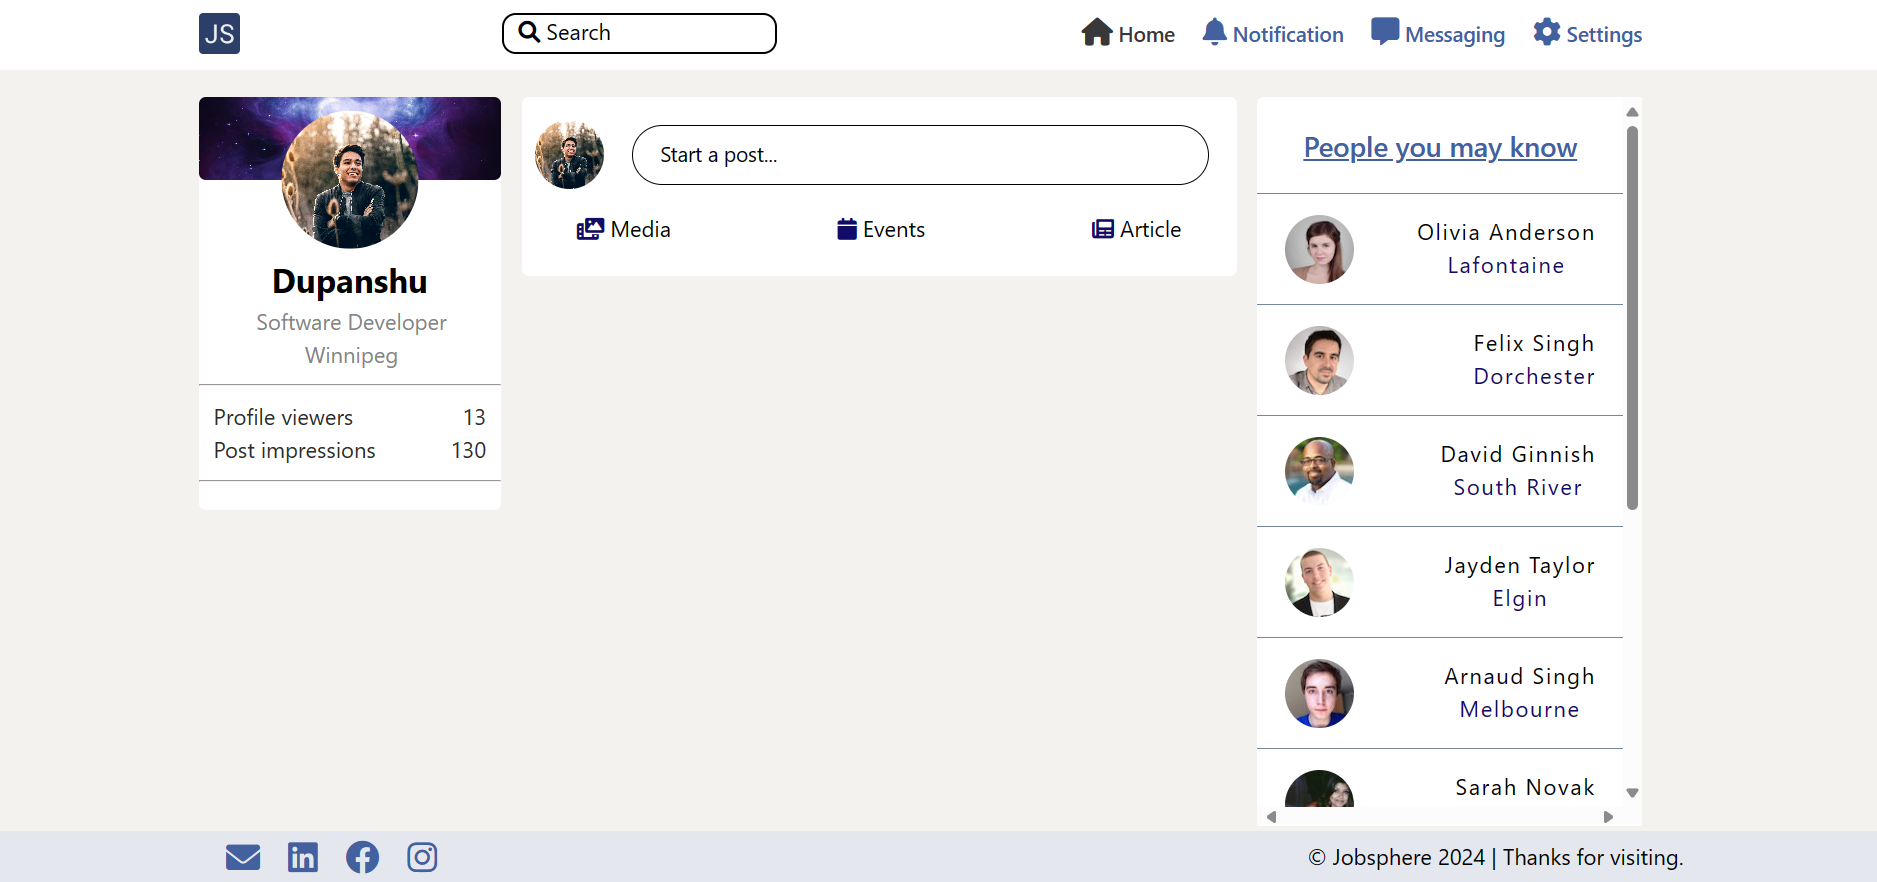
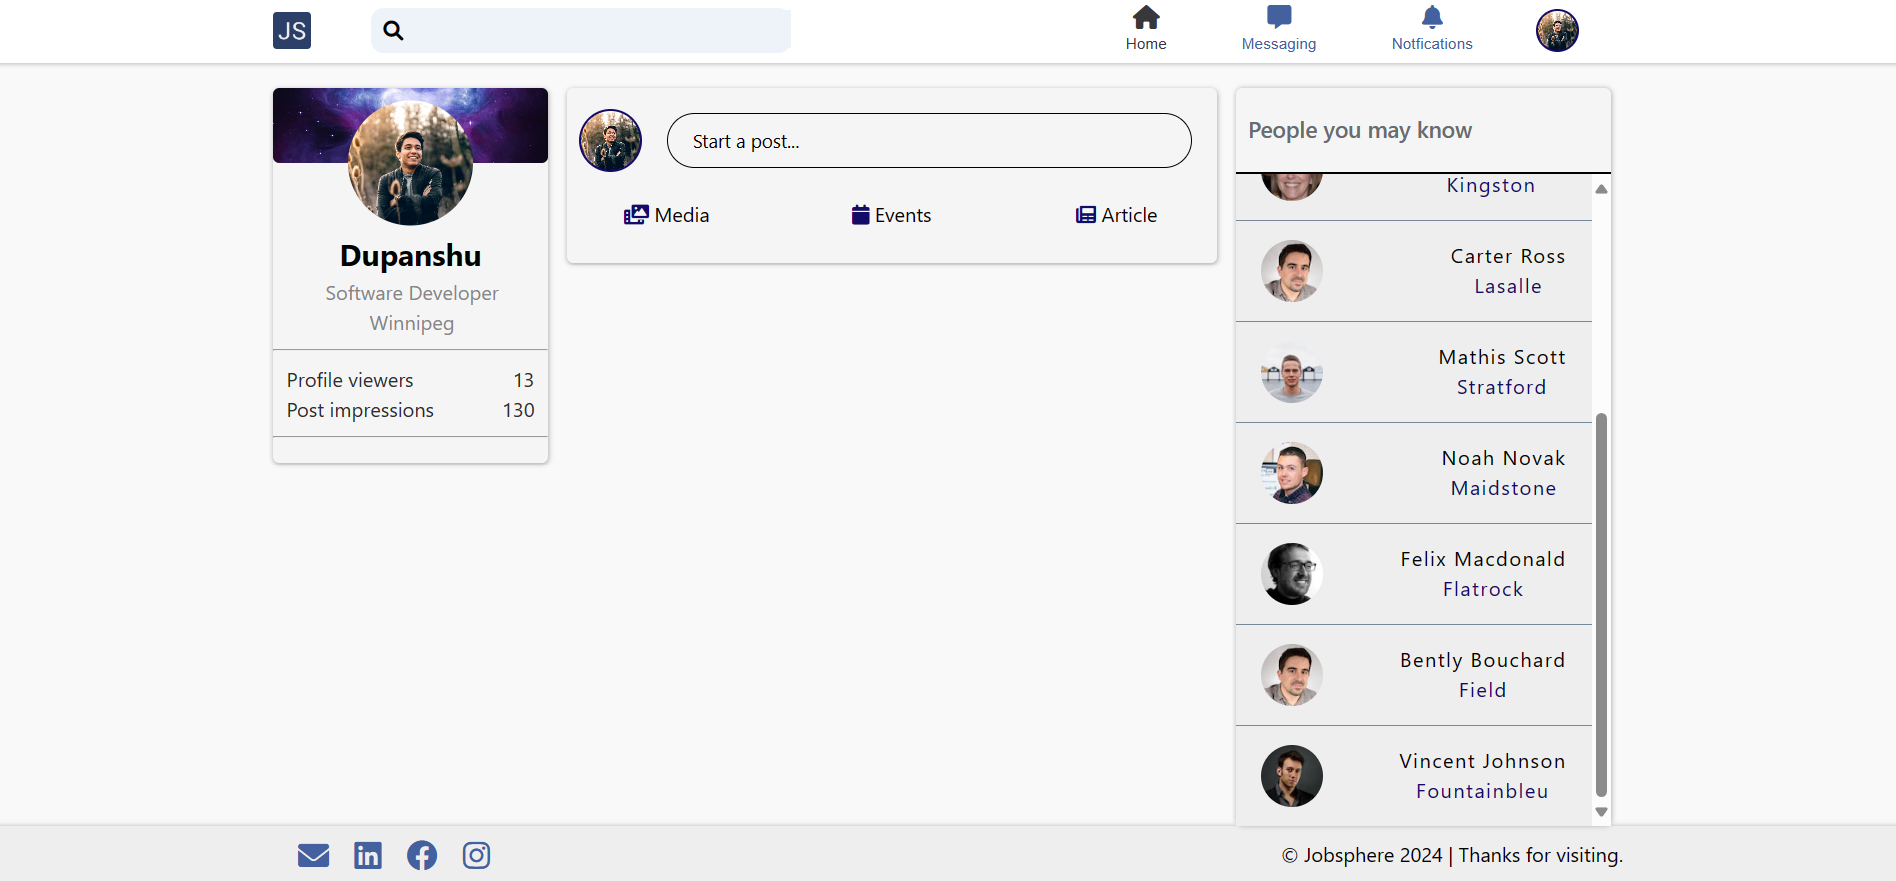
hover problem solved, p centered

diff --git a/assets/css/home.css b/assets/css/home.css
@@ -21,6 +21,10 @@ body {
   margin-inline: auto;
 }
 
+* {
+  scrollbar-color: var(--logo-color) #fff;
+}
+
 header {
   background-color: #fff;
   min-width: 100%;
@@ -60,7 +64,7 @@ header {
 nav {
   padding: 10px;
   list-style: none;
-  margin-right: 20px;
+  margin-right: 5px;
 }
 
 nav ul li p {
@@ -75,20 +79,27 @@ nav ul li p {
 .home {
   color: var(--hover-color);
 }
+nav ul li {
+  margin-left: 40px;
+}
 
 nav ul li i {
   font-size: 19px;
   text-decoration: none;
   font-weight: 100;
   color: var(--logo-color);
-  letter-spacing: 0.2px;
+  letter-spacing: 0.5px;
   cursor: pointer;
-  margin-left: 60px;
-  translate: -50px 0;
+  margin-left: 10px;
   text-align: center;
 }
 
-nav ul li i:hover, nav li p:hover {
+nav ul li:hover i{
+  color: var(--hover-color);
+  transition: color 250ms ease-in-out;
+}
+
+nav ul li:hover p{
   color: var(--hover-color);
   transition: color 250ms ease-in-out;
 }
@@ -102,7 +113,6 @@ nav ul li i:hover, nav li p:hover {
   height: 35px;
   width: 35px;
   border: 2px solid var(--logo-color-2);
-  margin-right: 5px;
 }
 
 /* columns */
@@ -240,7 +250,7 @@ input::placeholder {
 }
 
 .column3 p {
-  text-align: left;
+  text-align: center;
   font-size: 18px;
   font-weight: 500;
   padding: 20px 10px;

diff --git a/home.html b/home.html
@@ -71,7 +71,7 @@
               <a href="#"><i class="fa-brands fa-facebook"></i></a>
               <a href="#"><i class="fa-brands fa-instagram"></i></a>
             </div>
-            <div class="footer">&copy; Jobsphere 2024 | Thanks for visiting.</div class="footer">
+            <div class="footer">2024 &copy; Jobsphere | Thanks for visiting.</div class="footer">
             </div>
           </div>
         </div>
